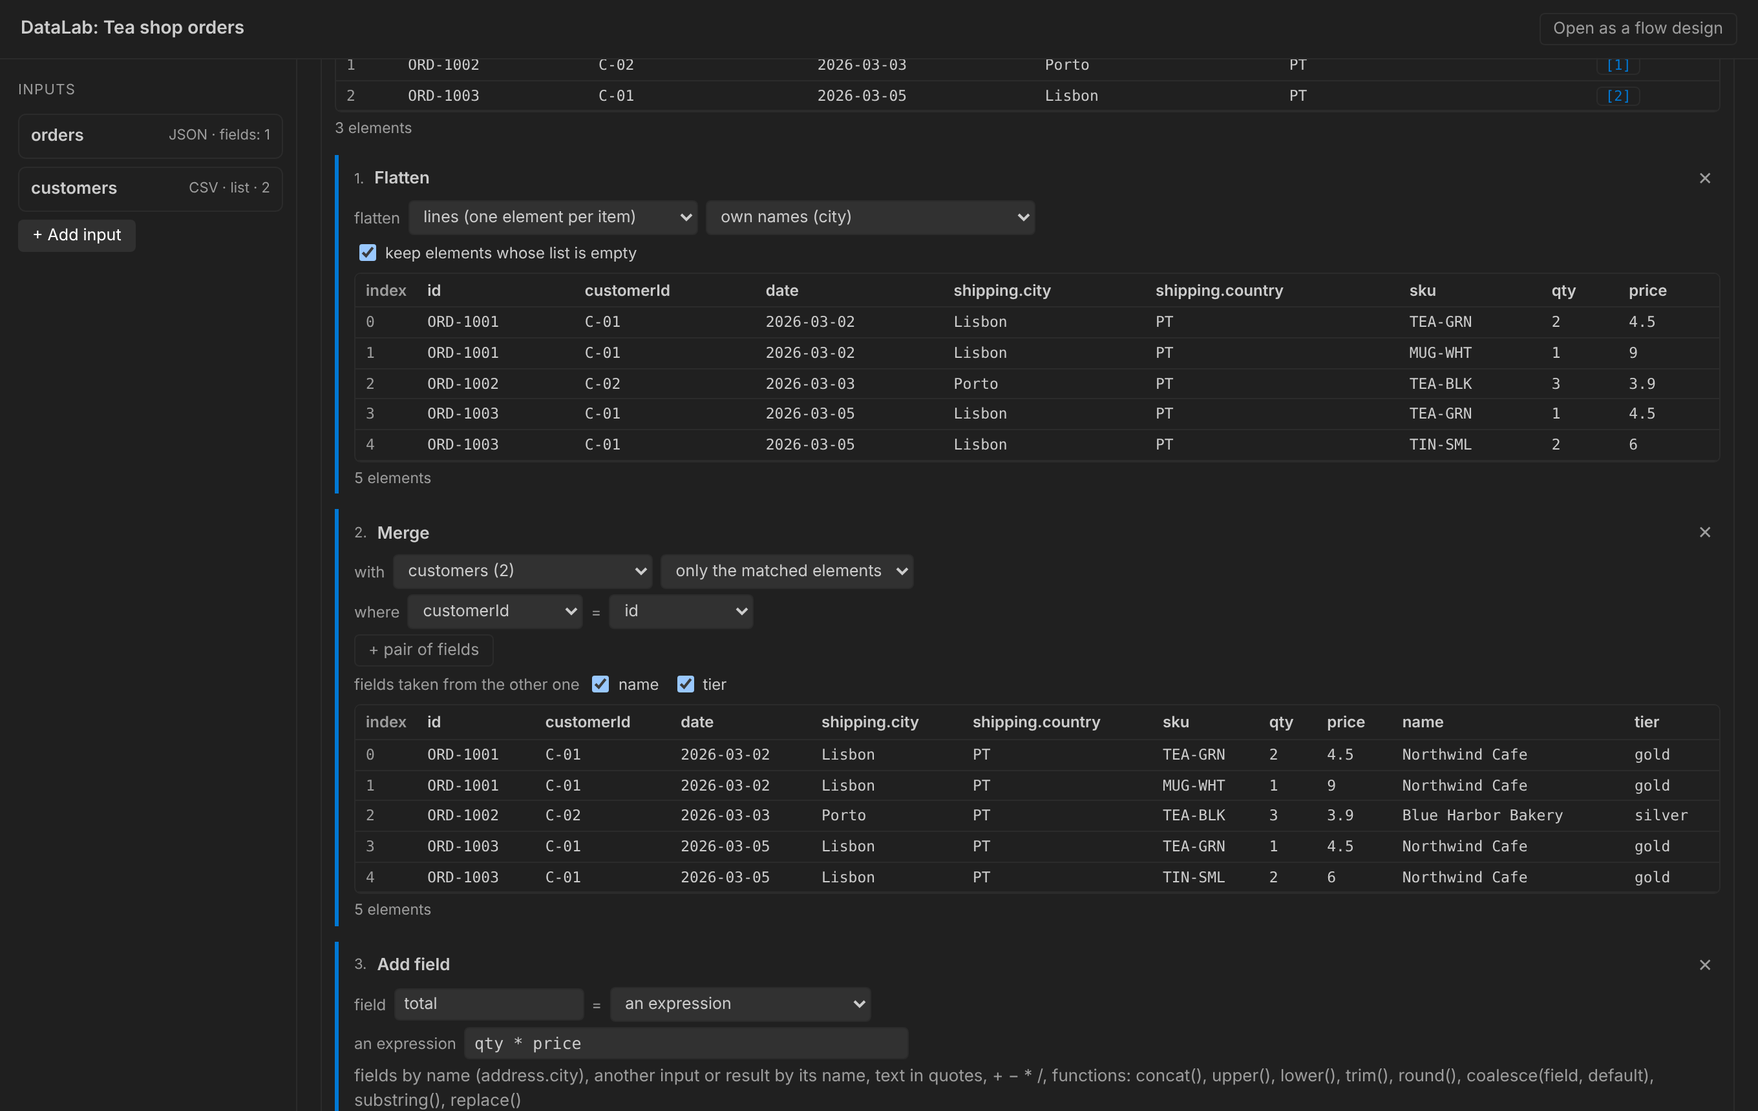
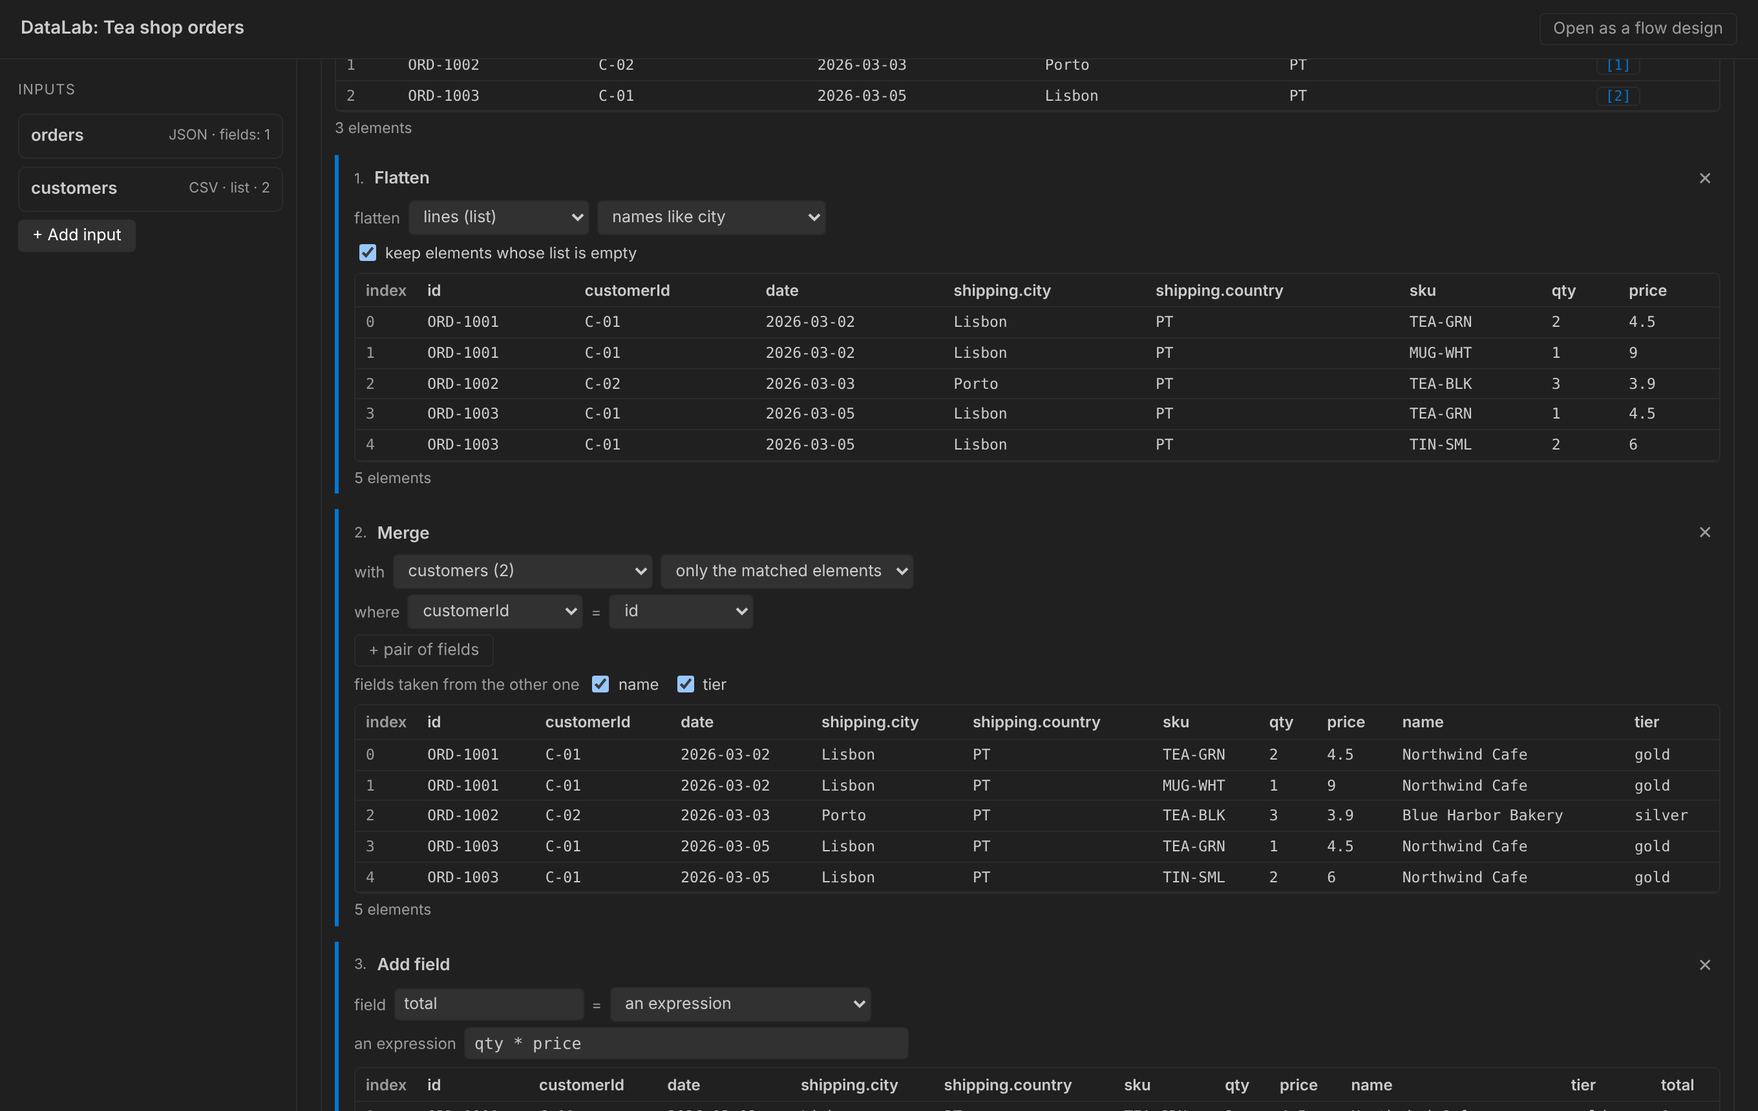
DataLab 1.1.0: save labs in the Spec Studio package; fewer texts
- When Spec Studio is installed and the workspace has its package folder
  (<workspace name>-spec), labs are saved in its data folder. The setting
  dataLab.useSpecPackage turns this off; dataLab.labsFolder still wins.
- No example placeholders in the input fields, no hints under the
  expression and the merge, shorter flatten options.

Claude-Session: https://claude.ai/code/session_01RWysJV2hj2s1q7MMPyzjus

Changed region(s): [[0.1875, 0.9552, 0.9688, 1.0], [0.2812, 0.1849, 0.4688, 0.2157]]

diff --git a/media/lab.js b/media/lab.js
@@ -116,7 +116,7 @@ function renderOverlay() {
   const inp = doc.inputs[i];
   const st = res && res.inputs ? res.inputs[inp.name] : null;
   const data = res && res.inputData ? res.inputData[inp.name] : null;
-  const ta = el('textarea', { 'data-key': 'in' + i + '.text', spellcheck: 'false', placeholder: M('run.samplePh') });
+  const ta = el('textarea', { 'data-key': 'in' + i + '.text', spellcheck: 'false', 'aria-label': M('dv.content') });
   ta.value = inp.text || '';
   ta.addEventListener('input', (e) => { inp.text = e.target.value; changed(); });
   document.body.appendChild(overlay([
@@ -127,7 +127,7 @@ function renderOverlay() {
     el('button', { class: 'link', text: M('dv.removeInput'), onclick: () => { doc.inputs.splice(i, 1); openInput = null; structural(); } })
   ], [
     el('div', { class: 'pane' }, [el('div', { class: 'cap', text: M('dv.content') }), ta]),
-    el('div', { class: 'pane' }, [el('div', { class: 'cap', text: M('dv.preview') }), data ? dataTable(data, [{ label: inp.name, value: data.kind === 'value' ? data.value : data.data }]) : el('div', { class: 'dim', text: M('dv.noPreview') })])
+    el('div', { class: 'pane' }, [el('div', { class: 'cap', text: M('dv.preview') }), data ? dataTable(data, [{ label: inp.name, value: data.kind === 'value' ? data.value : data.data }]) : null])
   ]));
 }
 
@@ -248,8 +248,8 @@ function stepForm(p, pi, s, si, cols, sources, colsOf, kindBefore, fields) {
           columnPick(k + '.c' + ci + '.f', c.field, cols, (v) => { c.field = v; structural(); }),
           pick(k + '.c' + ci + '.op', c.op || 'eq', OPS.map((o) => [o, M('cond.op.' + o)]), (v) => { c.op = v; structural(); })
         ];
-        if (NO_VALUE.indexOf(c.op) < 0) kids.push(text(k + '.c' + ci + '.v', c.value, (v) => { c.value = v; c.valueKind = 'const'; }, c.op === 'in' || c.op === 'notIn' ? M('dv.valuesPh') : M('dv.valuePh'), 14));
-        if (c.op === 'between') kids.push(lbl(M('dv.andValue')), text(k + '.c' + ci + '.v2', c.value2, (v) => { c.value2 = v; c.value2Kind = 'const'; }, M('dv.valuePh'), 14));
+        if (NO_VALUE.indexOf(c.op) < 0) kids.push(text(k + '.c' + ci + '.v', c.value, (v) => { c.value = v; c.valueKind = 'const'; }, '', 14));
+        if (c.op === 'between') kids.push(lbl(M('dv.andValue')), text(k + '.c' + ci + '.v2', c.value2, (v) => { c.value2 = v; c.value2Kind = 'const'; }, '', 14));
         if (s.conditions.length > 1) kids.push(el('button', { class: 'x', text: '✕', onclick: () => { s.conditions.splice(ci, 1); structural(); } }));
         box.appendChild(row(kids));
       });
@@ -292,7 +292,6 @@ function stepForm(p, pi, s, si, cols, sources, colsOf, kindBefore, fields) {
         sourcePick(k + '.o', s.other || '', sources, (v) => { s.other = v; s.fields = []; structural(); }, ['list', 'object']),
         kindBefore === 'list' && !otherIsObject ? pick(k + '.keep', s.keep === 'all' ? 'all' : 'matched', [['matched', M('dv.merge.matched')], ['all', M('dv.merge.all')]], (v) => { s.keep = v; structural(); }) : null
       ]));
-      if (otherIsObject) box.appendChild(row([el('span', { class: 'dim', text: M(kindBefore === 'list' ? 'dv.merge.objectIntoEach' : 'dv.merge.objectInto') })]));
       if (!otherIsObject) s.keys.forEach((key, ki) => {
         box.appendChild(row([
           lbl(ki ? M('op.keyAnd') : M('op.keyWhere')),
@@ -330,7 +329,7 @@ function stepForm(p, pi, s, si, cols, sources, colsOf, kindBefore, fields) {
         pick(k + '.m', s.mode || 'in', [['in', M('dv.cmp.in')], ['notIn', M('dv.cmp.notIn')], ['join', M('dv.cmp.join')]], (v) => { s.mode = v; structural(); }),
         sourcePick(k + '.o', s.other || '', sources, (v) => { s.other = v; structural(); }, 'list'),
         s.mode === 'join' ? lbl(M('op.joinAs')) : null,
-        s.mode === 'join' ? text(k + '.as', s.as, (v) => { s.as = v; }, (s.other || '').split('.').pop() || M('op.joinAsPh'), 10) : null
+        s.mode === 'join' ? text(k + '.as', s.as, (v) => { s.as = v; }, (s.other || '').split('.').pop(), 10) : null
       ]));
       s.keys.forEach((key, ki) => {
         box.appendChild(row([
@@ -399,14 +398,14 @@ function stepForm(p, pi, s, si, cols, sources, colsOf, kindBefore, fields) {
     }
     case 'add': {
       const from = s.from || 'const';
-      box.appendChild(row([lbl(M('dv.fieldName')), text(k + '.name', s.name, (v) => { s.name = v; }, M('dv.fieldNamePh'), 12), lbl('='),
+      box.appendChild(row([lbl(M('dv.fieldName')), text(k + '.name', s.name, (v) => { s.name = v; }, '', 12), lbl('='),
         pick(k + '.from', from, [['const', M('dv.add.const')], ['column', M('dv.add.column')], ['calc', M('dv.add.calc')], ['parts', M('dv.add.parts')], ['input', M('dv.add.input')], ['expr', M('dv.add.expr')]], (v) => {
           s.from = v;
           if (v === 'parts' && !(s.parts && s.parts.length)) s.parts = [{ kind: 'field', value: '' }, { kind: 'text', value: ' ' }, { kind: 'field', value: '' }];
           if (v === 'calc') s.how = s.how || { kind: '' };
           structural();
         })]));
-      if (from === 'const') box.appendChild(row([lbl(M('dv.valuePh')), text(k + '.v', s.value, (v) => { s.value = v; }, M('dv.valuePh'), 18)]));
+      if (from === 'const') box.appendChild(row([lbl(M('dv.valuePh')), text(k + '.v', s.value, (v) => { s.value = v; }, '', 18)]));
       else if (from === 'column') box.appendChild(row([lbl(M(kindBefore === 'list' ? 'dv.column' : 'dv.field')), columnPick(k + '.c', s.column, cols, (v) => { s.column = v; structural(); })]));
       else if (from === 'input') box.appendChild(row([lbl(M('dv.add.from')), sourcePick(k + '.path', s.path, sources, (v) => { s.path = v; structural(); })]));
       else if (from === 'calc') {
@@ -419,7 +418,7 @@ function stepForm(p, pi, s, si, cols, sources, colsOf, kindBefore, fields) {
           const pk = k + '.part' + pi2;
           line.appendChild(pick(pk + '.k', part.kind === 'field' ? 'field' : 'text', [['field', M('dv.part.field')], ['text', M('dv.part.text')]], (v) => { part.kind = v; part.value = ''; structural(); }));
           line.appendChild(part.kind === 'field' ? columnPick(pk + '.v', part.value, cols, (v) => { part.value = v; structural(); })
-            : text(pk + '.v', part.value, (v) => { part.value = v; }, M('dv.part.textPh'), 6));
+            : text(pk + '.v', part.value, (v) => { part.value = v; }, '', 6));
           line.appendChild(el('button', { class: 'x', text: '✕', onclick: () => { s.parts.splice(pi2, 1); structural(); } }));
           if (pi2 < s.parts.length - 1) line.appendChild(lbl('+'));
         });
@@ -427,10 +426,9 @@ function stepForm(p, pi, s, si, cols, sources, colsOf, kindBefore, fields) {
         box.appendChild(row([el('button', { class: 'link', text: M('dv.part.addField'), onclick: () => { s.parts.push({ kind: 'field', value: '' }); structural(); } }),
           el('button', { class: 'link', text: M('dv.part.addText'), onclick: () => { s.parts.push({ kind: 'text', value: '' }); structural(); } })]));
       } else {
-        const t = text(k + '.expr', s.expr, (v) => { s.expr = v; }, 'price * quantity', 40);
+        const t = text(k + '.expr', s.expr, (v) => { s.expr = v; }, '', 40);
         t.classList.add('mono');
         box.appendChild(row([lbl(M('dv.add.expr')), t]));
-        box.appendChild(row([el('span', { class: 'dim', text: M('dv.exprHint') })]));
       }
       break;
     }
@@ -506,12 +504,12 @@ function renderWork() {
       el('span', { class: 'lbl', text: M('dv.from') }),
       sourcePick('p' + pi + '.src', p.source || '', sources, (v) => { p.source = v; structural(); }),
       el('span', { class: 'lbl', text: M('dv.resultName') }),
-      text('p' + pi + '.name', p.name, (v) => { p.name = v.replace(/[^\p{L}\p{N}_]/gu, ''); }, 'result' + (pi + 1), 12),
+      text('p' + pi + '.name', p.name, (v) => { p.name = v.replace(/[^\p{L}\p{N}_]/gu, ''); }, '', 12),
       el('span', { class: 'grow' }),
       el('button', { class: 'x', text: '✕', title: M('dv.removeTransform'), onclick: () => { doc.pipelines.splice(pi, 1); structural(); } })
     ]));
     const body = el('div', { class: 'card-body' });
-    if (!p.source) body.appendChild(el('div', { class: 'dim', text: sources.length ? M('dv.pickSource') : M('dv.noLists') }));
+    if (!p.source && !sources.length) body.appendChild(el('div', { class: 'dim', text: M('dv.noLists') }));
     else if (r && r.sourceView) body.appendChild(table(r.sourceView));
     let cols = r && r.sourceColumns ? r.sourceColumns : [];
     let kindNow = r && r.sourceKind ? r.sourceKind : 'list';

diff --git a/src/nls.js b/src/nls.js
@@ -47,7 +47,6 @@ const EN = {
   "op.otherList": "list",
   "op.otherListPh": "the other list",
   "op.joinAs": "attached as",
-  "op.joinAsPh": "name",
   "op.keyWhere": "where",
   "op.keyAnd": "and",
   "op.keyThisPh": "field of this element",
@@ -136,24 +135,21 @@ const EN = {
   "dv.close": "Close",
   "dv.content": "Content",
   "dv.preview": "Preview",
-  "dv.noPreview": "Paste the data — it shows here as a table.",
   "dv.openNested": "Open what is inside",
   "dv.col.field": "field",
   "dv.col.index": "index",
   "dv.col.value": "value",
   "dv.step.merge.object": "Merge",
   "dv.step.merge": "Merge",
-  "dv.merge.objectInto": "the object's fields come into this one",
-  "dv.merge.objectIntoEach": "the object's fields come into every element",
   "dv.step.drop": "Remove columns",
   "dv.remove": "Remove",
   "dv.step.flatten": "Flatten",
   "dv.flatten.what": "flatten",
   "dv.flatten.all": "all nested objects",
-  "dv.flatten.object": "{path} (its fields up one level)",
-  "dv.flatten.list": "{path} (one element per item)",
-  "dv.flatten.names.parent": "names with the parent (address_city)",
-  "dv.flatten.names.own": "own names (city)",
+  "dv.flatten.object": "{path}",
+  "dv.flatten.list": "{path} (list)",
+  "dv.flatten.names.parent": "names like address_city",
+  "dv.flatten.names.own": "names like city",
   "dv.flatten.keepEmpty": "keep elements whose list is empty",
   "dv.step.drop.object": "Remove fields",
   "dv.drop.which": "remove",
@@ -165,10 +161,8 @@ const EN = {
   "dv.add.from": "from",
   "dv.part.field": "field",
   "dv.part.text": "text",
-  "dv.part.textPh": "text",
   "dv.part.addField": "+ field",
   "dv.part.addText": "+ text",
-  "dv.exprHint": "fields by name (address.city), another input or result by its name, text in quotes, + − * /, functions: concat(), upper(), lower(), trim(), round(), coalesce(field, default), substring(), replace()",
   "dv.thenHow": "then",
   "dv.addHow": "+ next transformation",
   "dv.step.append": "Append",
@@ -190,7 +184,6 @@ const EN = {
   "dv.where": "where",
   "dv.or": "or",
   "dv.and": "and",
-  "dv.valuesPh": "A, B, C",
   "dv.valuePh": "value",
   "dv.andValue": "and",
   "dv.addCondition": "+ condition",
@@ -228,7 +221,6 @@ const EN = {
   "dv.value": "value",
   "dv.field": "field",
   "dv.fieldName": "field",
-  "dv.fieldNamePh": "name",
   "dv.add.const": "fixed value",
   "dv.add.column": "another field",
   "dv.add.input": "from an input or result",
@@ -267,7 +259,6 @@ const EN = {
   "run.inputCap": "SAMPLE DATA",
   "run.outputCap": "OUTPUT",
   "run.noSources": "No sources — add a source, then paste its sample.",
-  "run.samplePh": "Paste a sample with data — JSON, XML, YAML, CSV or key=value…",
   "run.load": "Load file…",
   "run.clear": "Clear",
   "run.run": "Transform",
@@ -584,7 +575,6 @@ const EN = {
   "lab.pickPh": "Type a name for a new lab, or pick one below",
   "lab.new": "+ New lab",
   "lab.newNamed": "+ New lab \"{name}\"",
-  "lab.newDetail": "sample data and its transformations",
   "lab.delete": "Delete a lab…",
   "lab.namePrompt": "Name of the lab",
   "lab.nameDefault": "Lab",

diff --git a/src/extension.js b/src/extension.js
@@ -3,7 +3,7 @@
 const vscode = require('vscode');
 const path = require('path');
 const { forLanguage } = require('./nls');
-const { LAB_SUFFIX, resolveLabsFolder, slugOf, labIdOf } = require('./labsFolder');
+const { LAB_SUFFIX, resolveLabsFolder, specPackageOf, slugOf, labIdOf } = require('./labsFolder');
 
 function displayLanguage() {
   const ws = vscode.workspace;
@@ -18,9 +18,16 @@ const LEGACY_LAB_FILE = 'lab.json';
 const LOGIC_SPEC = 'beatahumeniuk.logic-spec';
 
 function storageRoot(context) { return vscode.Uri.joinPath(context.globalStorageUri, 'labs'); }
-function labsFolder() {
+const SPEC_STUDIO = 'beatahumeniuk.spec-studio';
+async function specPackage(root) {
+  if (!root || !vscode.extensions.getExtension(SPEC_STUDIO)) return '';
+  if (vscode.workspace.getConfiguration('dataLab', root).get('useSpecPackage') === false) return '';
+  const dir = specPackageOf(root.fsPath);
+  try { return (await vscode.workspace.fs.stat(vscode.Uri.file(dir))).type === vscode.FileType.Directory ? dir : ''; } catch (e) { return ''; }
+}
+async function labsFolder() {
   const root = workspaceRoot();
-  const resolved = resolveLabsFolder(vscode.workspace.getConfiguration('dataLab', root).get('labsFolder'), root ? root.fsPath : '');
+  const resolved = resolveLabsFolder(vscode.workspace.getConfiguration('dataLab', root).get('labsFolder'), root ? root.fsPath : '', await specPackage(root));
   return resolved ? vscode.Uri.file(resolved.folder) : null;
 }
 
@@ -64,7 +71,7 @@ async function labsIn(folder, where) {
   return out;
 }
 async function listLabs(context) {
-  const folder = labsFolder();
+  const folder = await labsFolder();
   const inFolder = folder ? await labsIn(folder, 'folder') : [];
   const inStorage = folder && path.resolve(folder.fsPath) === path.resolve(storageRoot(context).fsPath) ? [] : await labsIn(storageRoot(context), 'storage');
   return inFolder.concat(inStorage).sort((a, b) => b.mtime - a.mtime);
@@ -104,8 +111,9 @@ async function openCommand(context) {
   if (picked.action === 'new') {
     const name = picked.name || await vscode.window.showInputBox({ title: nls.t('lab.pick'), prompt: nls.t('lab.namePrompt'), value: nls.t('lab.nameDefault') + ' ' + (list.length + 1) });
     if (name === undefined) return;
-    const folder = labsFolder() || storageRoot(context);
-    if (!labsFolder()) vscode.window.showInformationMessage(nls.t('lab.noFolder'));
+    const chosen = await labsFolder();
+    const folder = chosen || storageRoot(context);
+    if (!chosen) vscode.window.showInformationMessage(nls.t('lab.noFolder'));
     await vscode.workspace.fs.createDirectory(folder);
     id = slugOf(name, (await labsIn(folder, '')).map((x) => x.id));
     file = vscode.Uri.joinPath(folder, id + LAB_SUFFIX);

diff --git a/test/labs-folder-test.js b/test/labs-folder-test.js
@@ -1,6 +1,6 @@
 const path = require('path');
 const { runChecks } = require('./helpers');
-const { resolveLabsFolder, slugOf, labIdOf, DEFAULT_FOLDER } = require('../src/labsFolder');
+const { resolveLabsFolder, specPackageOf, slugOf, labIdOf, DEFAULT_FOLDER } = require('../src/labsFolder');
 
 const ws = path.join(path.sep, 'work', 'shop');
 const abs = path.join(path.sep, 'data', 'labs');
@@ -11,5 +11,9 @@ runChecks([
   [resolveLabsFolder('', '') === null && resolveLabsFolder('labs', '') === null, 'no workspace and no absolute setting: no folder'],
   [slugOf('Tea shop orders', []) === 'tea-shop-orders' && slugOf('Zamówienia ŁÓDŹ', []) === 'zamowienia-lodz', 'file names from lab names'],
   [slugOf('Orders', ['orders', 'orders-2']) === 'orders-3' && slugOf('!!!', []) === 'lab', 'a taken name gets a number; an empty one a default'],
-  [labIdOf('orders.lab.json') === 'orders' && labIdOf('orders.json') === '', 'only *.lab.json files are labs']
+  [labIdOf('orders.lab.json') === 'orders' && labIdOf('orders.json') === '', 'only *.lab.json files are labs'],
+  [specPackageOf(ws) === path.join(ws, 'shop-spec') && specPackageOf('') === '', 'the Spec Studio package: the workspace name plus -spec'],
+  [resolveLabsFolder('', ws, path.join(ws, 'shop-spec')).folder === path.join(ws, 'shop-spec', 'data') && resolveLabsFolder('', ws, path.join(ws, 'shop-spec')).kind === 'spec', 'with the package: its data folder'],
+  [resolveLabsFolder('docs/labs', ws, path.join(ws, 'shop-spec')).folder === path.join(ws, 'docs', 'labs') && resolveLabsFolder(abs, ws, path.join(ws, 'shop-spec')).folder === abs, 'a folder set in the settings wins over the package'],
+  [resolveLabsFolder('', ws, '').folder === path.join(ws, DEFAULT_FOLDER), 'without the package: data in the workspace']
 ]);

diff --git a/src/labsFolder.js b/src/labsFolder.js
@@ -3,15 +3,21 @@ const path = require('path');
 const DEFAULT_FOLDER = 'data';
 const LAB_SUFFIX = '.lab.json';
 
-function resolveLabsFolder(setting, workspacePath) {
+function specPackageOf(workspacePath) {
+  return workspacePath ? path.join(workspacePath, path.basename(workspacePath) + '-spec') : '';
+}
+
+function resolveLabsFolder(setting, workspacePath, specPackage) {
   const chosen = String(setting || '').trim();
   if (chosen && path.isAbsolute(chosen)) return { folder: path.normalize(chosen), kind: 'custom' };
   if (!workspacePath) return null;
-  return { folder: path.join(workspacePath, chosen || DEFAULT_FOLDER), kind: chosen ? 'custom' : 'default' };
+  if (chosen) return { folder: path.join(workspacePath, chosen), kind: 'custom' };
+  if (specPackage) return { folder: path.join(specPackage, DEFAULT_FOLDER), kind: 'spec' };
+  return { folder: path.join(workspacePath, DEFAULT_FOLDER), kind: 'default' };
 }
 
 function slugOf(name, taken) {
-  const base = String(name).toLowerCase().normalize('NFD').replace(/[̀-ͯ]/g, '').replace(/ł/g, 'l')
+  const base = String(name).toLowerCase().normalize('NFD').replace(/[\u0300-\u036f]/g, '').replace(/\u0142/g, 'l')
     .replace(/[^a-z0-9]+/g, '-').replace(/^-|-$/g, '') || 'lab';
   const used = new Set((taken || []).map((x) => String(x).toLowerCase()));
   let slug = base;
@@ -24,4 +30,4 @@ function labIdOf(fileName) {
   return fileName.endsWith(LAB_SUFFIX) ? fileName.slice(0, -LAB_SUFFIX.length) : '';
 }
 
-module.exports = { DEFAULT_FOLDER, LAB_SUFFIX, resolveLabsFolder, slugOf, labIdOf };
+module.exports = { DEFAULT_FOLDER, LAB_SUFFIX, resolveLabsFolder, specPackageOf, slugOf, labIdOf };

diff --git a/src/labPick.js b/src/labPick.js
@@ -2,8 +2,8 @@ function labPickItems(list, typed, t) {
   const name = String(typed || '').trim();
   const exists = name && list.some((s) => String(s.title).trim().toLowerCase() === name.toLowerCase());
   const first = name && !exists
-    ? { label: t('lab.newNamed', { name }), detail: t('lab.newDetail'), action: 'new', name, alwaysShow: true }
-    : { label: t('lab.new'), detail: t('lab.newDetail'), action: 'new', alwaysShow: !name };
+    ? { label: t('lab.newNamed', { name }), action: 'new', name, alwaysShow: true }
+    : { label: t('lab.new'), action: 'new', alwaysShow: !name };
   const items = [first].concat(list.map((s) => ({
     label: s.title,
     description: [s.where === 'storage' ? t('lab.inStorage') : '', s.mtime ? new Date(s.mtime).toLocaleString() : ''].filter(Boolean).join(' · '),

diff --git a/README.md b/README.md
@@ -61,12 +61,18 @@ Enter a name to create a new lab, or select an existing one.
 
 You can also delete existing labs from the selection menu.
 
-Each lab is saved as a `<name>.lab.json` file in the `data` folder of the
-open workspace, so it can be committed with the project. To save labs
-elsewhere, set **DataLab: Labs Folder** (`dataLab.labsFolder`) in the
-settings: a relative path is resolved against the workspace, an absolute path
-is used as it is. Without an open folder and without an absolute path, labs are
-kept in the extension's own storage.
+Each lab is saved as a `<name>.lab.json` file, so it can be committed with the
+project. The folder is chosen in this order:
+
+1. **DataLab: Labs Folder** (`dataLab.labsFolder`), if set. A relative path is
+   resolved against the workspace; an absolute path is used as it is.
+2. The `data` folder of the Spec Studio package (`<workspace name>-spec/data`),
+   when Spec Studio is installed and the package folder exists. Turn this off
+   with **DataLab: Use Spec Package** (`dataLab.useSpecPackage`).
+3. The `data` folder of the workspace.
+
+Without an open folder and without an absolute path, labs are kept in the
+extension's own storage.
 
 ### 2. Add Data Sources
 

diff --git a/SECURITY.md b/SECURITY.md
@@ -65,10 +65,12 @@ DataLab saves each lab as a file in the labs folder:
 <labs folder>/<name>.lab.json
 ```
 
-The labs folder is `data` in the open workspace, or the path set in
-`dataLab.labsFolder`. Without an open folder and without an absolute path,
-labs are kept in the extension's global storage. In an untrusted workspace,
-the workspace cannot change `dataLab.labsFolder`.
+The labs folder is the path set in `dataLab.labsFolder`; without it, the
+`data` folder of the Spec Studio package (`<workspace name>-spec/data`) when
+Spec Studio is installed and the package exists, or `data` in the open
+workspace. Without an open folder and without an absolute path, labs are kept
+in the extension's global storage. In an untrusted workspace, the workspace
+cannot change `dataLab.labsFolder` or `dataLab.useSpecPackage`.
 
 Stored information includes:
 

diff --git a/CHANGELOG.md b/CHANGELOG.md
@@ -1,5 +1,13 @@
 # Changelog
 
+## [1.1.0] - 2026-11-15
+
+- When Spec Studio is installed and the workspace has its package folder
+  (`<workspace name>-spec`), labs are saved in its `data` folder. The setting
+  `dataLab.useSpecPackage` turns this off; `dataLab.labsFolder` still wins.
+- Fewer texts in the lab: no example placeholders in the input fields, no hints
+  under the expression and the merge, shorter flatten options.
+
 ## [1.0.0] - 2026-11-15
 
 First public release.
